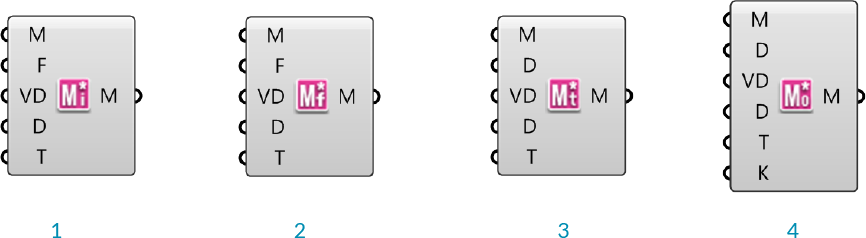
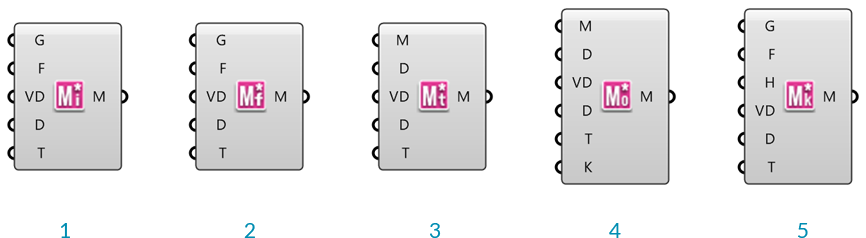
Transform Update

diff --git a/en/2-extensions/2-1/2_Components.md b/en/2-extensions/2-1/2_Components.md
@@ -61,17 +61,17 @@ This component outputs the mesh vertices, neighboring vertices (arranged in cloc
 
 ####2.1.2.3 Primitives
 
-Element\* provides four additional mesh primitives: the Icosohedron, Dodecahedron, Octahedron, and Tetrahedron. These components take a single number as input for the radius, and produce meshes centered at the origin, and composed of one face per side. With the addition of the Cube, which is already availible through Grasshopper's built-in primitives, these make up the five Platonic solids. 
+Element\* provides four additional mesh primitives: the Dodecahedron, Tetrahedron, Octahedron, and Icosahedron. These components take a single number as input for the radius, and produce meshes centered at the origin, and composed of one face per side. With the addition of the Cube, which is already availible through Grasshopper's built-in primitives, these make up the five Platonic solids. 
 
 ![IMAGE](images/05_primitives.png)
 >1. Dodecahedron
 2. Tetrahedron
 3. Octahedron
-4. Tetrahedron
+4. Icosahedron
 
 ####2.1.2.4 Smooth
 
-**Element\* Smooth** provides an optimized smoothing algorithm that is more efficient than Grasshopper's **Smooth Mesh** for large datasets. It makes use of the Lapacian Smoothing algorithm for Half-Edge structured meshes. It does not change the topology or vertex count of welded meshes, but will weld together any unwelded meshes.
+**Element\* Smooth** provides an optimized smoothing algorithm that is more efficient than Grasshopper's **Smooth Mesh** for large datasets. It makes use of the Lapacian Smoothing algorithm for Half-Edge structured meshes. It does not change the topology or vertex count of welded meshes, but will combine identical vertices if there are any duplicates caused by an unwelded mesh.
 
 ![IMAGE](images/06_smooth.png)
 
@@ -97,6 +97,7 @@ This subdivison component will create an all quad mesh by adding a face for each
 2. Mesh Frame
 3. Mesh Thicken
 4. Mesh Offset
+5. Mesh Poke Face
 
 These components provide a number of different transformations described below. Each component has the additional capability of accepting per-vertex distance data to allow for variations of the transformation magnitudes across the mesh.
 
@@ -115,6 +116,11 @@ This component will thicken an input mesh along the vertex normals, and accordin
 **Element\* Mesh Offset**
 
 This component creats an offset of the input mesh based on the vertex normals.
+
+**Element\* Mesh Poke Face**
+
+First the mesh face goes through the frame operation then the face inner is split the selected faces and allows the user to specify the push or pull amount from the center of the original polygon.
+For example, a four-sided polygon (quad) is split into 4 three-sided polygons with one shared vertex in the middle. The height input allows you to transform that vertex.
 
 ![IMAGE](images/09_transform-examples.png)
 >1. Mesh Window
